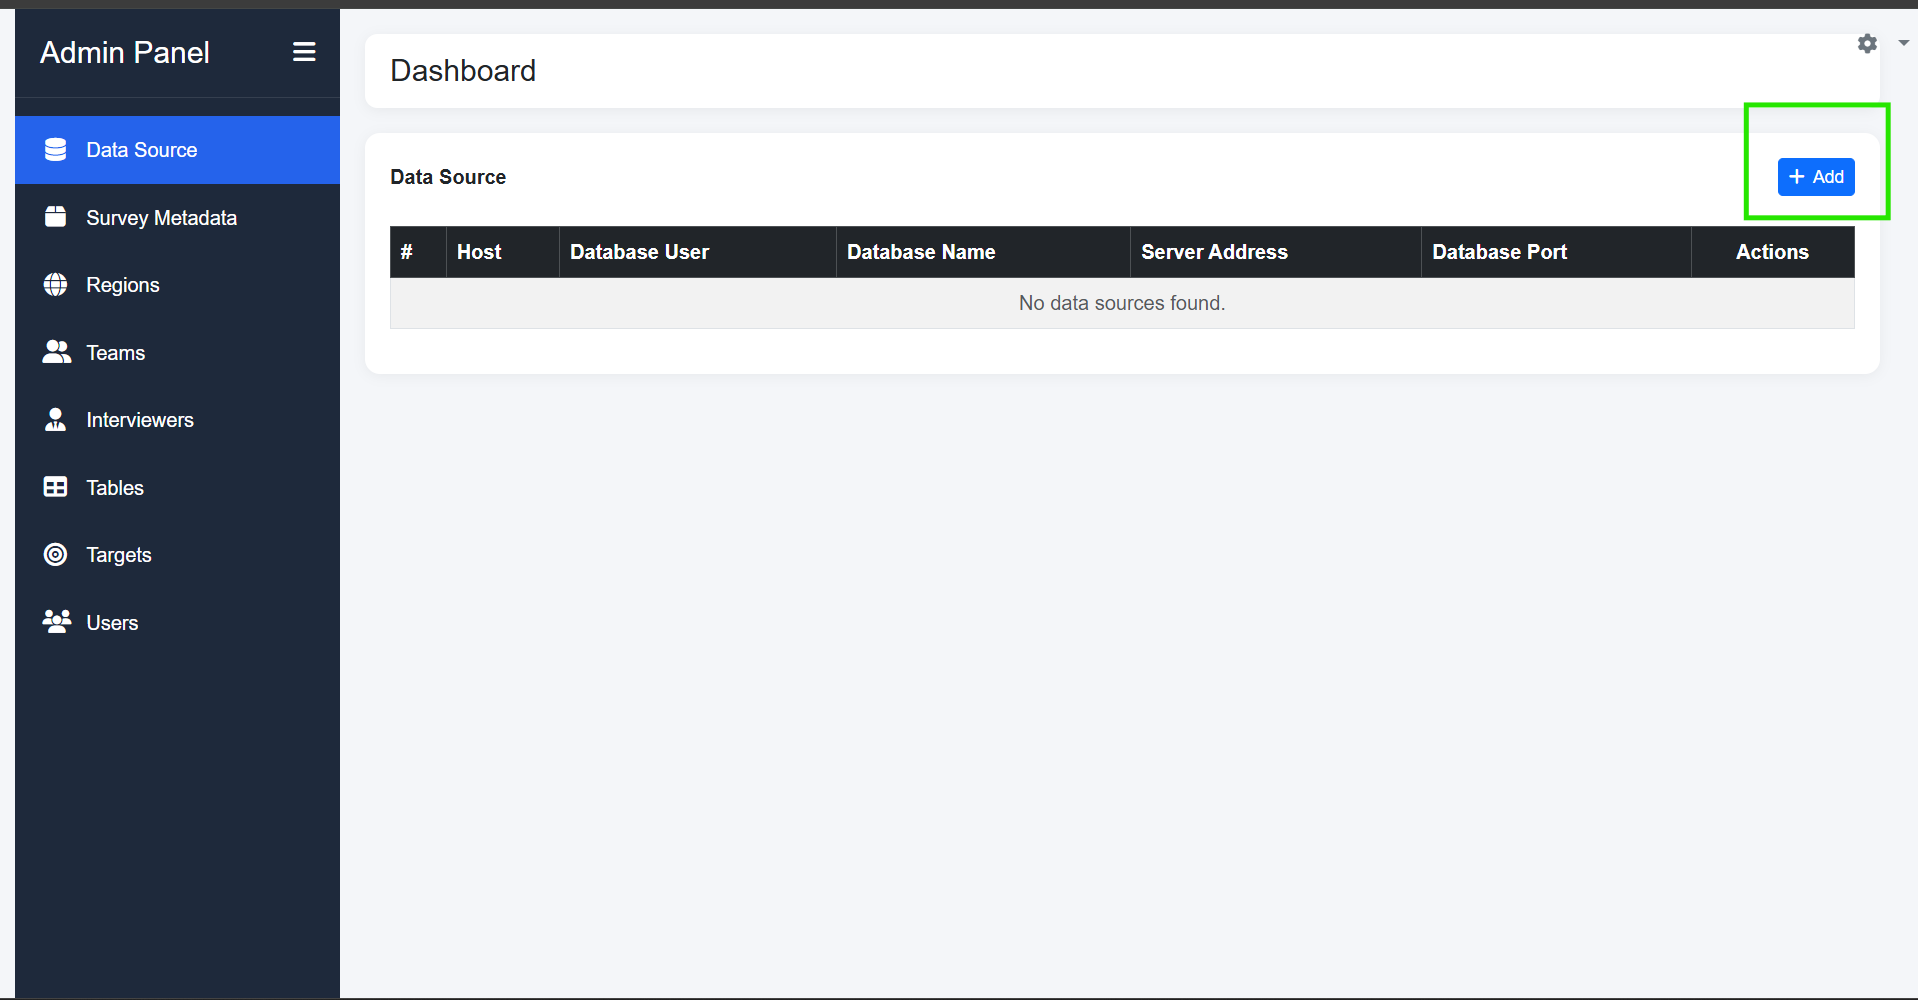
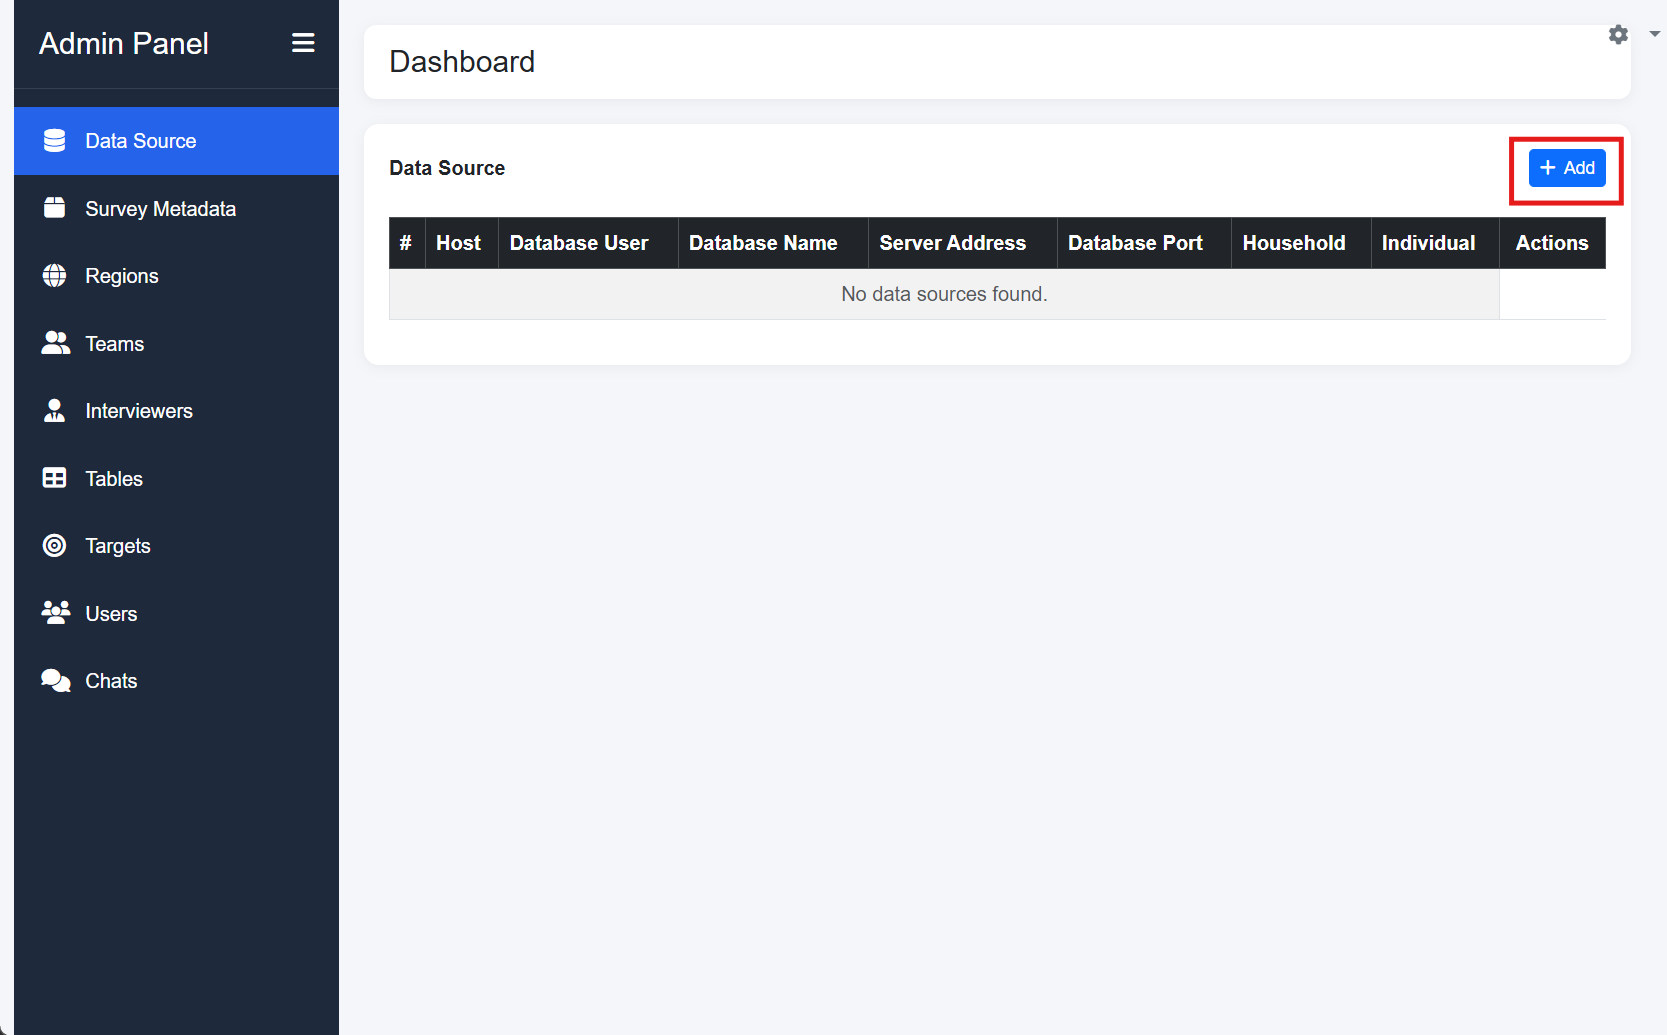
installation guid V2.0

Changed region(s): [[0.0, 0.0, 1.0, 1.0]]

diff --git a/README.md b/README.md
@@ -127,13 +127,13 @@ sudo apt install -y p7zip-full
 Extract the provided ZIP package:
 
 ```bash
-7z x config.zip
+7z x zinaya-ME.zip
 ```
 
 This will create a folder named:
 
 ```bash
-config
+zinaya-ME
 ```
 
 ---
@@ -143,7 +143,7 @@ config
 Move into the extracted directory:
 
 ```bash
-cd config
+cd zinaya-ME
 ```
 
 ---
